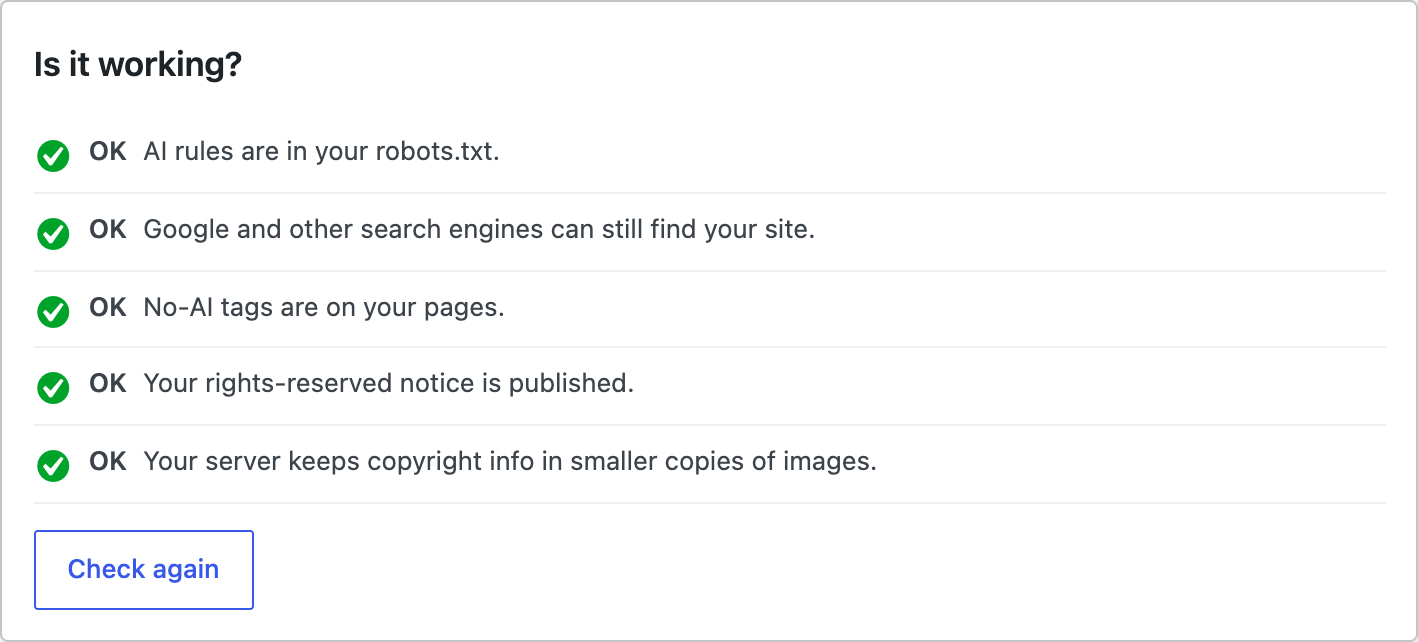
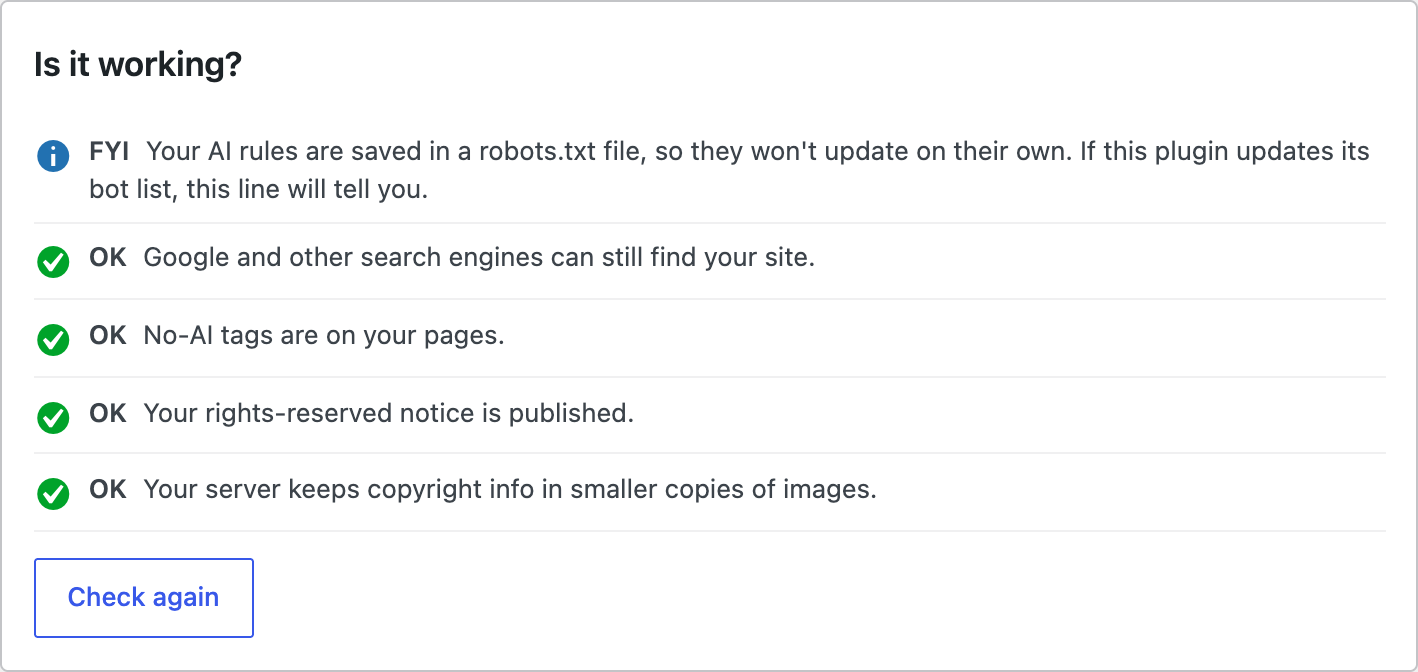
Detect frozen rules in robots.txt files

diff --git a/includes/status.php b/includes/status.php
@@ -309,12 +309,69 @@ function notfortraining_physical_robots_paths() {
  * @return bool
  */
 function notfortraining_has_physical_robots() {
+	return null !== notfortraining_physical_robots_path();
+}
+
+/**
+ * The physical robots.txt at the site root, if there is one.
+ *
+ * @return string|null Absolute path.
+ */
+function notfortraining_physical_robots_path() {
 	foreach ( notfortraining_physical_robots_paths() as $path ) {
 		if ( is_file( $path ) ) {
-			return true;
+			return $path;
 		}
 	}
-	return false;
+	return null;
+}
+
+/**
+ * Normalize robots.txt text for comparison: LF line endings, no trailing
+ * whitespace on any line, runs of blank lines collapsed to one (they mean
+ * nothing to crawlers), no trailing blank lines.
+ *
+ * @param string $text Text.
+ * @return string
+ */
+function notfortraining_normalize_robots_text( $text ) {
+	$lines = array_map( 'rtrim', preg_split( '/\r\n|\r|\n/', (string) $text ) );
+	$text  = preg_replace( '/\n{3,}/', "\n\n", implode( "\n", $lines ) );
+	return rtrim( (string) $text );
+}
+
+/**
+ * Cut the plugin's block out of robots.txt text: from the marker line
+ * through as many blank-line-separated chunks as the current block has
+ * (the marker and its first group, then each further group).
+ *
+ * @param string $text robots.txt text.
+ * @return string|null The block, normalized; null if there's no marker line.
+ */
+function notfortraining_extract_robots_block( $text ) {
+	$lines = explode( "\n", notfortraining_normalize_robots_text( $text ) );
+	$start = array_search( notfortraining_robots_marker(), $lines, true );
+	if ( false === $start ) {
+		return null;
+	}
+
+	$expected = notfortraining_normalize_robots_text( notfortraining_robots_block() );
+	$chunks   = max( 1, count( preg_split( '/\n\s*\n/', $expected ) ) );
+
+	// Blank lines are single after normalizing, so each one ends a chunk.
+	$block = array();
+	$seen  = 1;
+	$count = count( $lines );
+	for ( $i = $start; $i < $count; $i++ ) {
+		if ( '' === $lines[ $i ] ) {
+			if ( $seen >= $chunks ) {
+				break;
+			}
+			++$seen;
+		}
+		$block[] = $lines[ $i ];
+	}
+	return implode( "\n", $block );
 }
 
 /**
@@ -378,17 +435,46 @@ function notfortraining_check_robots_served( array $context ) {
 		return notfortraining_status_result( $id, 'info', 'subdirectory', __( 'Your site is in a subfolder, so robots.txt is controlled by the main site at the top of your domain. Ask whoever runs it to add these rules.', 'not-for-training' ), 'copy_rules' );
 	}
 
+	$physical = notfortraining_physical_robots_path();
+	if ( null !== $physical ) {
+		return notfortraining_check_physical_robots( $id, (string) notfortraining_filesystem()->get_contents( $physical ) );
+	}
+
 	$response = $context['fetch']( 'robots' );
 	if ( $response && 200 === $response['code'] && notfortraining_robots_has_our_rules( $response['body'] ) ) {
 		return notfortraining_status_result( $id, 'ok', 'ok', __( 'AI rules are in your robots.txt.', 'not-for-training' ) );
-	}
-	if ( notfortraining_has_physical_robots() ) {
-		return notfortraining_status_result( $id, 'problem', 'physical_file', __( "Your site has its own robots.txt file, so the plugin can't add the AI rules. Remove that file, or ask your host or web person to paste these rules into it.", 'not-for-training' ), 'copy_rules' );
 	}
 	if ( ! $response ) {
 		return notfortraining_status_unknown( $id );
 	}
 	return notfortraining_status_result( $id, 'problem', 'replaced', __( "Your robots.txt doesn't include the AI rules. Another plugin, an SEO plugin's robots editor, or your host may be replacing it. Turn that off, or paste these rules there.", 'not-for-training' ), 'copy_rules' );
+}
+
+/**
+ * The result for a physical robots.txt, from its contents. The web server
+ * sends this file instead of WordPress's robots.txt, so the plugin can't
+ * change it:
+ *
+ * - No marker line: the AI rules aren't there (problem).
+ * - The marker and exactly the block the plugin would add now: the rules
+ *   are there but frozen, and won't follow plugin updates (info). Someone
+ *   pasted them in, or an SEO plugin saved WordPress's robots.txt as a
+ *   file (Yoast's "Create robots.txt file" does).
+ * - The marker with a different block: an old copy (warn).
+ *
+ * @param string $id       Check ID.
+ * @param string $contents File contents.
+ * @return array
+ */
+function notfortraining_check_physical_robots( $id, $contents ) {
+	$found = notfortraining_extract_robots_block( $contents );
+	if ( null === $found ) {
+		return notfortraining_status_result( $id, 'problem', 'physical_file', __( "Your site has its own robots.txt file, so the plugin can't add the AI rules. Remove that file, or ask your host or web person to paste these rules into it.", 'not-for-training' ), 'copy_rules' );
+	}
+	if ( notfortraining_normalize_robots_text( notfortraining_robots_block() ) === $found ) {
+		return notfortraining_status_result( $id, 'info', 'frozen_current', __( "Your AI rules are saved in a robots.txt file, so they won't update on their own. If this plugin updates its bot list, this line will tell you.", 'not-for-training' ) );
+	}
+	return notfortraining_status_result( $id, 'warn', 'frozen_stale', __( 'Your robots.txt file has an old copy of the AI rules. Replace that part of the file with these.', 'not-for-training' ), 'copy_rules' );
 }
 
 /**

diff --git a/tests/test-status.php b/tests/test-status.php
@@ -186,11 +186,86 @@ class NotForTraining_Test_Status extends NotForTraining_TestCase {
 	}
 
 	/**
-	 * A physical file that already holds our rules (pasted in) is fine.
+	 * Write the physical robots.txt.
+	 *
+	 * @param string $contents Contents.
 	 */
-	public function test_robots_served_physical_file_with_our_rules() {
-		file_put_contents( $this->root . '/robots.txt', $this->served_robots() );
-		$this->assertResult( 'ok', 'ok', $this->check( 'robots_served' ) );
+	private function physical_file( $contents ) {
+		file_put_contents( $this->root . '/robots.txt', $contents );
+	}
+
+	/**
+	 * A file holding exactly today's block: frozen_current, no request,
+	 * whatever is around it.
+	 */
+	public function test_robots_served_frozen_current() {
+		$block = notfortraining_robots_block();
+		$files = array(
+			'block only'                  => $block,
+			'what WordPress served'       => $this->served_robots(),
+			'Yoast-style, block first'    => $block . "\n# START YOAST BLOCK\nUser-agent: *\nDisallow:\n# END YOAST BLOCK\n",
+			'CRLF line endings'           => "User-agent: *\r\nDisallow:\r\n\r\n" . str_replace( "\n", "\r\n", $block ) . "\r\n",
+			'trailing spaces and blanks'  => preg_replace( '/$/m', "  \t", $block ) . "\n\n\n\nSitemap: https://example.org/sitemap.xml\n",
+			'double blank between groups' => str_replace( "Disallow: /\n\n#", "Disallow: /\n\n\n#", $block ),
+		);
+		foreach ( $files as $label => $contents ) {
+			$this->physical_file( $contents );
+			$this->requests = array();
+			$result         = $this->check( 'robots_served' );
+			$this->assertResult( 'info', 'frozen_current', $result );
+			$this->assertSame( "Your AI rules are saved in a robots.txt file, so they won't update on their own. If this plugin updates its bot list, this line will tell you.", $result['message'], $label );
+			$this->assertArrayNotHasKey( 'action', $result, $label );
+			$this->assertSame( array(), $this->requests, $label );
+		}
+	}
+
+	/**
+	 * A file holding a different block: frozen_stale, with the rules to
+	 * copy. Covers a mode change, a bot list change, a hand edit and a
+	 * truncated copy, with LF and CRLF.
+	 */
+	public function test_robots_served_frozen_stale() {
+		$training = notfortraining_robots_block( 'training' );
+		$all      = notfortraining_robots_block( 'all' );
+
+		$files = array(
+			'saved in "all" mode, now "training"' => $all,
+			'one bot fewer'                       => str_replace( "User-agent: Diffbot\n", '', $training ),
+			'hand-edited rule'                    => str_replace( "Allow: /\n", "Allow: /blog/\n", $training ),
+			'second group missing'                => substr( $training, 0, strpos( $training, "\n\n" ) ) . "\n",
+			'old copy with CRLF'                  => str_replace( "\n", "\r\n", $all ),
+		);
+		foreach ( $files as $label => $contents ) {
+			$this->physical_file( $contents );
+			$result = $this->check( 'robots_served' );
+			$this->assertResult( 'warn', 'frozen_stale', $result );
+			$this->assertSame( 'Your robots.txt file has an old copy of the AI rules. Replace that part of the file with these.', $result['message'], $label );
+			$this->assertSame( 'copy_rules', $result['action'], $label );
+		}
+
+		// A bot added to the list later makes a saved copy stale.
+		$this->physical_file( $training );
+		$this->assertResult( 'info', 'frozen_current', $this->check( 'robots_served' ) );
+		$add = static function ( $bots ) {
+			$bots['training'][] = 'NewTrainingBot';
+			return $bots;
+		};
+		add_filter( 'notfortraining_bots', $add );
+		$result = $this->check( 'robots_served' );
+		remove_filter( 'notfortraining_bots', $add );
+		$this->assertResult( 'warn', 'frozen_stale', $result );
+	}
+
+	/**
+	 * A file without the marker keeps the physical-file problem, even if it
+	 * happens to list some of the same bots.
+	 */
+	public function test_robots_served_physical_without_marker() {
+		$this->physical_file( str_replace( '# Not For Training', '# My own rules', notfortraining_robots_block() ) );
+		$this->assertResult( 'problem', 'physical_file', $this->check( 'robots_served' ) );
+
+		$this->physical_file( "User-agent: *\r\nDisallow:\r\n" );
+		$this->assertResult( 'problem', 'physical_file', $this->check( 'robots_served' ) );
 	}
 
 	/**
